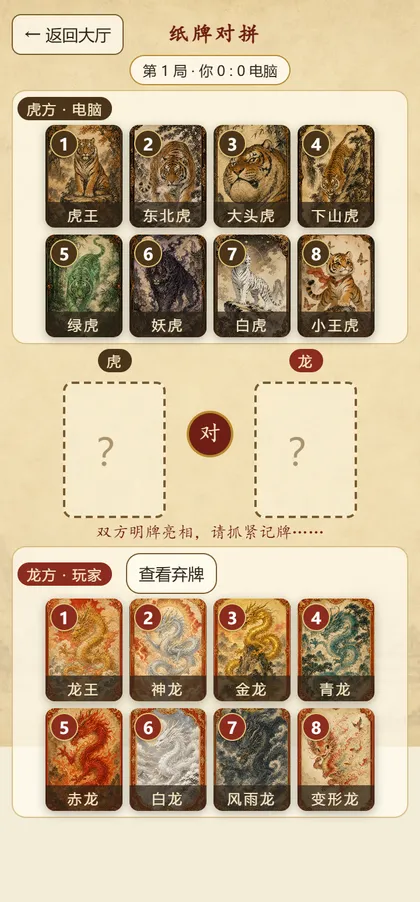
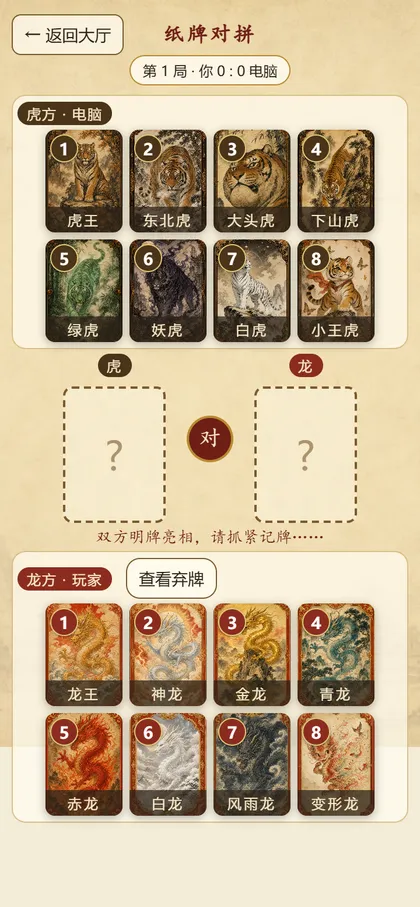
竖屏适配第三轮：避开容器分享按钮，修正三处对齐
认输按钮撤出顶栏右上角——小工具容器在那里预置了分享按钮，会把它压住。
纸牌页移到玩家手牌区表头与"查看弃牌"并列，棋盘页移到战绩行。顶栏右侧保留
空占位元素，三列网格少一列标题就压不住中线。棋盘页的认输用绝对定位靠右，
这样战绩本身仍与棋盘中线严格对齐、不被挤偏。

修正标题偏离棋盘中线 4px：窄屏媒体查询里的 .topbar > * + * { margin-left: 8px }
排在 .topbar-centered > * + * 的重置之后，同优先级下赢了，把外边距又加回给了
标题。改用 .topbar.topbar-centered 两个类提高优先级，与书写顺序无关。

空牌位的问号改用半角 ?：全角"？"字形在字符框内靠左、右侧留白，flex 居中的是
字符框，视觉上必然偏左。

规则页顶栏去掉"游戏规则"大标题，只留返回按钮，两个标签页独占一行居中；
随之删掉窄屏下让标题与标签页挤在一起的那段媒体查询。

弃牌区的牌统一到棋盘损失区尺寸（38x51），牌名隐藏、号数角标缩小。
战绩行与手牌区之间补上间距——基线的 -4px 负边距把窄屏下的间距吃成了 0。

核对脚本新增两项断言：标题与战绩相对棋盘中线的偏移、空牌位问号的居中偏移，
均要求 1px 内；另加弃牌展开态的截图与高度核对。弃牌行只在该方有失牌时渲染，
所以断言等的是任意一侧的 .lost-row，不能锁定玩家侧。

390x844 下大厅、纸牌（记牌/揭示）、棋盘、规则全部一屏可见，对齐偏移均为 0。
tsc、58 项测试、官方审计均通过，zip 1.01 MB。

diff --git a/src/styles.css b/src/styles.css
@@ -350,7 +350,8 @@ button {
 }
 
 .card-empty-mark {
-  font-size: 32px;
+  font-size: 34px;
+  line-height: 1;
   color: var(--bronze);
   opacity: 0.6;
 }
@@ -467,8 +468,10 @@ button {
   align-items: center;
 }
 
-/* 网格顶栏的间距由 grid-gap 负责，清掉 flex 版顶栏的子项外边距 */
-.topbar-centered > * + * {
+/* 网格顶栏的间距由列宽负责，清掉 flex 版顶栏的子项外边距。
+   这里必须用两个类提高优先级：窄屏媒体查询里的 .topbar > * + * 排在本规则之后，
+   同优先级下会赢，把 margin-left 加回给标题，导致标题偏离棋盘中线。 */
+.topbar.topbar-centered > * + * {
   margin-left: 0;
 }
 
@@ -484,11 +487,19 @@ button {
   text-align: center;
 }
 
-/* 顶栏下方居中显示的战绩行 */
+/* 顶栏下方居中显示的战绩行（棋盘页还会在这里放认输按钮） */
 .score-row {
+  position: relative;
   display: flex;
+  align-items: center;
   justify-content: center;
   margin: -4px 0;
+}
+
+/* 认输脱离文档流靠右，这样战绩不会被它挤偏，始终与棋盘中线对齐 */
+.score-row .btn-mini {
+  position: absolute;
+  right: 0;
 }
 
 .btn-danger {
@@ -563,6 +574,7 @@ button {
   display: flex;
   align-items: center;
   flex-wrap: wrap;
+  justify-content: center;
   margin: 10px -3px 0;
   padding-top: 8px;
   border-top: 1px dashed rgba(122, 90, 46, 0.4);
@@ -894,8 +906,9 @@ button {
   margin-top: 8px;
 }
 
-/* 损失区只需看清是哪几号牌，牌名反而挤 */
-.captured-col .card-name {
+/* 损失区/弃牌区只需看清是哪几号牌，号数角标已经够了，牌名反而挤 */
+.captured-col .card-name,
+.lost-row .card-name {
   display: none;
 }
 
@@ -909,6 +922,13 @@ button {
   padding-top: calc(16px + var(--safe-top));
   padding-bottom: 48px;
   padding-bottom: calc(48px + var(--safe-bottom));
+}
+
+/* 规则页的两个标签页独占一行居中 */
+.rules-tabs {
+  display: flex;
+  justify-content: center;
+  margin-top: 10px;
 }
 
 .rules-content {
@@ -1013,6 +1033,11 @@ button {
   .vs-mark { width: 46px; height: 46px; font-size: 22px; }
   .center-note { font-size: 16px; letter-spacing: 1px; }
   .lost-row { margin-top: 4px; padding-top: 4px; }
+  /* 战绩行与下方手牌区之间留出呼吸感：基线的 -4px 负边距把间距吃成了 0 */
+  .score-row { margin: 4px 0 6px; }
+  /* 弃牌与棋盘页的损失牌同尺寸 */
+  .lost-row .card-view { width: 38px; height: 51px; }
+  .lost-row .card-rank { width: 15px; height: 15px; font-size: 10px; }
   .game-screen { padding-left: 10px; padding-right: 10px; }
   .game-screen > * + * { margin-top: 4px; }
   /* 底部只需让出固定操作栏的高度，桌面端的 88px 在手机上偏多 */
@@ -1074,21 +1099,7 @@ button {
   .rules-screen { padding-left: 12px; padding-right: 12px; }
   .rules-content { padding: 16px 16px 28px; }
 
-  /* 规则页顶栏塞不下三组元素，改为标题跟返回按钮同行、两个标签页独占一行 */
-  .rules-screen .topbar {
-    flex-wrap: wrap;
-  }
-  .rules-screen .topbar h2 {
-    flex: 1 1 auto;
-    text-align: center;
-    white-space: nowrap;
-  }
-  .rules-screen .topbar .opt-group {
-    flex: 0 0 100%;
-    justify-content: center;
-    margin: 6px -4px 0;
-  }
-  .rules-content h1 { font-size: 26px; letter-spacing: 3px; }
+    .rules-content h1 { font-size: 26px; letter-spacing: 3px; }
   .rules-content h2 { font-size: 20px; margin-top: 24px; }
 }
 
@@ -1126,7 +1137,8 @@ button {
   /* 棋盘页在 640px 高只差二十几像素就能一屏放下，这里把棋格与损失牌各收一档补上 */
   .board-wrap { --cell: 64px; }
   .captured-col { padding: 4px 5px; }
-  .captured-col .card-view { width: 34px; height: 45px; }
+  .captured-col .card-view,
+  .lost-row .card-view { width: 34px; height: 45px; }
   .status-row > * { margin: 3px; }
-  .score-row { margin: 0; }
+  .score-row { margin: 0 0 4px; }
 }

diff --git a/src/ui/CardGame/CardGameScreen.tsx b/src/ui/CardGame/CardGameScreen.tsx
@@ -282,10 +282,18 @@ export default function CardGameScreen({ config, onExit }: Props) {
           <span className={`faction-tag tag-${f}`}>{factionLabel(f)}</span>
           {/* 折叠态只显示张数，跟表头挤在一行；展开才占整行，省下一行高度 */}
           {lost.length > 0 && <span className="lost-count">已吃掉 {lost.length} 张</span>}
-          {/* 弃牌开关放玩家侧表头：顶栏在手机上塞不下两个按钮 */}
+          {/* 操作按钮都放玩家侧表头，避开顶栏右上角的容器分享按钮 */}
           {f === playerFaction && (
             <button className="btn-plain btn-mini" onClick={toggleDiscard}>
               {showDiscard ? '隐藏弃牌' : '查看弃牌'}
+            </button>
+          )}
+          {f === playerFaction && !gameOver && phase !== 'preview' && (
+            <button
+              className="btn-plain btn-mini btn-danger"
+              onClick={() => setSurrenderAsk(true)}
+            >
+              认输
             </button>
           )}
         </div>
@@ -380,13 +388,9 @@ export default function CardGameScreen({ config, onExit }: Props) {
       <header className="topbar topbar-centered">
         <button className="btn-plain" onClick={requestExit}>← 返回大厅</button>
         <h2>纸牌对拼</h2>
-        <div className="topbar-actions">
-          {!gameOver && phase !== 'preview' && (
-            <button className="btn-plain btn-danger" onClick={() => setSurrenderAsk(true)}>
-              认输
-            </button>
-          )}
-        </div>
+        {/* 右侧留空：小工具容器在顶栏右上角预置了分享按钮，放我们的按钮会被压住。
+            占位元素不能删，三列网格少一列标题就压不住中线。 */}
+        <div className="topbar-actions" />
       </header>
 
       <div className="score-row">

diff --git a/src/ui/BoardGame/BoardGameScreen.tsx b/src/ui/BoardGame/BoardGameScreen.tsx
@@ -264,13 +264,9 @@ export default function BoardGameScreen({ config, onExit }: Props) {
       <header className="topbar topbar-centered">
         <button className="btn-plain" onClick={requestExit}>← 返回大厅</button>
         <h2>棋盘翻棋</h2>
-        <div className="topbar-actions">
-          {canSurrender && (
-            <button className="btn-plain btn-danger" onClick={() => setSurrenderAsk(true)}>
-              认输
-            </button>
-          )}
-        </div>
+        {/* 右侧留空：小工具容器在顶栏右上角预置了分享按钮，放我们的按钮会被压住。
+            占位元素不能删，三列网格少一列标题就压不住中线。 */}
+        <div className="topbar-actions" />
       </header>
 
       <div className="board-status">
@@ -283,10 +279,19 @@ export default function BoardGameScreen({ config, onExit }: Props) {
             后手：{slotLabel('second')}
           </span>
         </div>
+        {/* 认输跟战绩同行：顶栏右上角被容器的分享按钮占着 */}
         <div className="score-row">
           <span className="score-tag">
             战绩：玩家 {score.player} 胜 · 电脑 {score.ai} 胜 · 和 {score.draw}
           </span>
+          {canSurrender && (
+            <button
+              className="btn-plain btn-mini btn-danger"
+              onClick={() => setSurrenderAsk(true)}
+            >
+              认输
+            </button>
+          )}
         </div>
         {!gameOver && (
           <p className="turn-banner">

diff --git a/src/ui/RulesScreen.tsx b/src/ui/RulesScreen.tsx
@@ -8,9 +8,11 @@ export default function RulesScreen({ onBack }: { onBack: () => void }) {
   const [tab, setTab] = useState<Tab>('quick');
   return (
     <div className="rules-screen">
+      {/* 顶栏只放返回按钮，标签页独占一行居中：三块并排在窄屏挤不下，标题也压不住中线 */}
       <header className="topbar">
         <button className="btn-plain" onClick={onBack}>← 返回大厅</button>
-        <h2>游戏规则</h2>
+      </header>
+      <div className="rules-tabs">
         <div className="opt-group">
           <button className={`opt-btn ${tab === 'quick' ? 'opt-active' : ''}`} onClick={() => setTab('quick')}>
             极简规则
@@ -19,7 +21,7 @@ export default function RulesScreen({ onBack }: { onBack: () => void }) {
             完整规则
           </button>
         </div>
-      </header>
+      </div>
       {/* 规则文档是随包固定的静态内容，构建期已渲染成 HTML，不含任何外部输入 */}
       <article
         className="rules-content"

diff --git a/src/ui/CardView.tsx b/src/ui/CardView.tsx
@@ -35,7 +35,8 @@ export default function CardView({
     classes.push('card-empty');
     return (
       <div className={classes.join(' ')} onClick={onClick}>
-        <span className="card-empty-mark">？</span>
+        {/* 用半角问号：全角"？"的字形在字符框内靠左、右侧留白，居中后看着是偏的 */}
+        <span className="card-empty-mark">?</span>
       </div>
     );
   }
